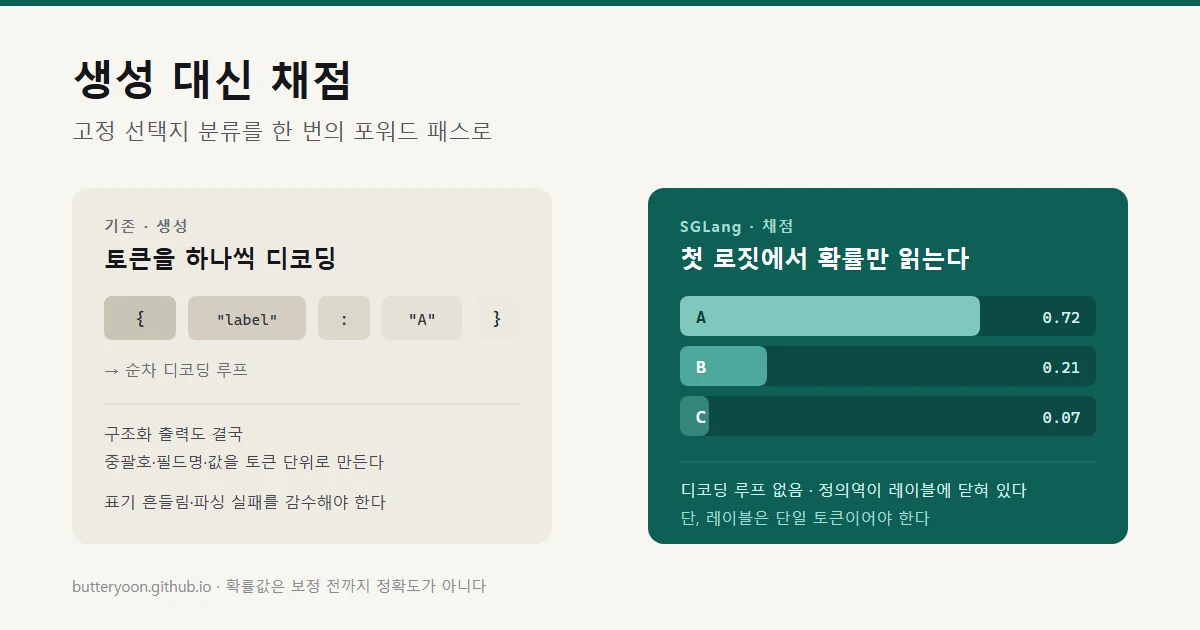
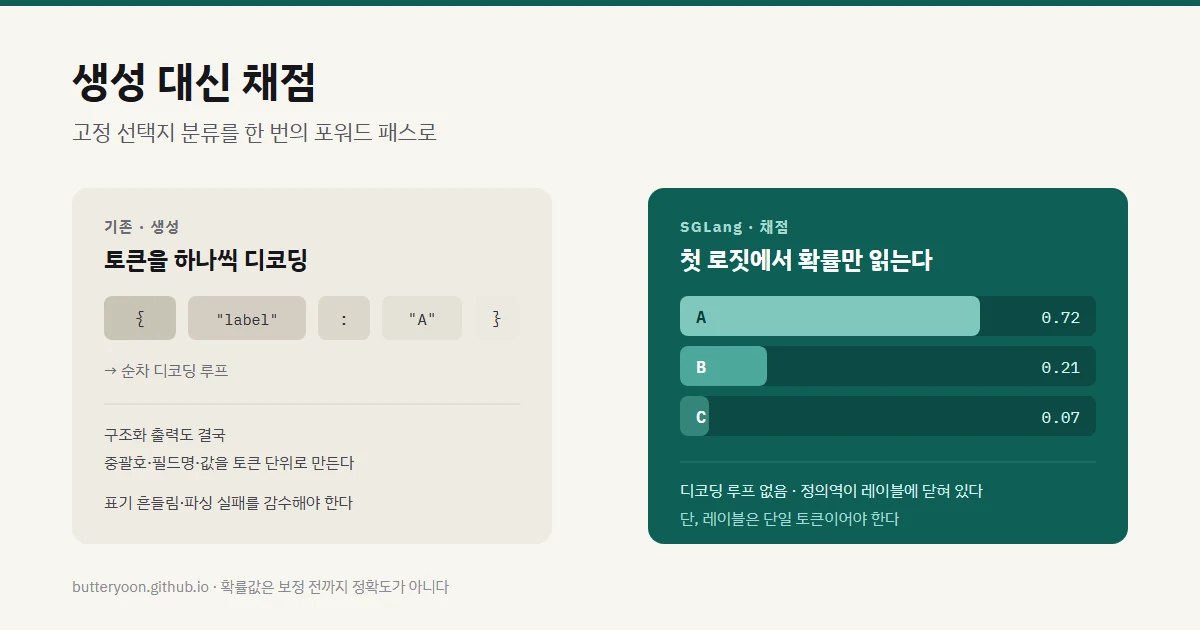
다이어그램 글꼴을 IBM Plex Sans KR + IBM Plex Mono로 교체
페이퍼로지는 Google Fonts에 없어 아티팩트(스타일시트를 fonts.googleapis.com
에서만 허용)에서 못 쓰고, 웨이트마다 패밀리가 따로 등록돼 font-weight 지정이
먹지 않는 문제가 있었다. IBM Plex Sans KR은 한 패밀리로 400~700을 커버하고
숫자·코드용 IBM Plex Mono와 설계가 같아 블로그와 아티팩트에서 함께 쓸 수 있다.

- SVG: @import로 Google Fonts를 불러오고 웨이트별 패밀리 지정 제거
- webp 재렌더 (1200x630, 32KB)
- CLAUDE.md·blog-draft-rules 스킬(v1.3.0) 규칙 교체
  렌더 시 --virtual-time-budget 필요(웹폰트 도착 전 촬영 방지)를 명시

diff --git a/CLAUDE.md b/CLAUDE.md
@@ -23,12 +23,13 @@ Publishing = commit and push to `master`; GitHub Pages builds automatically. Plu
 - `date` must not be in the future: GitHub Pages excludes future-dated posts from the build (no `future: true` in config), so the post silently won't appear on the site. When writing a new post, set `date` to the current time or earlier (KST, `+0900`).
 - `_config.yml` sets `timezone: Asia/Seoul` so post URLs use KST dates. Do not remove it — without it GitHub Pages builds in UTC and posts published before 09:00 KST get URLs dated one day earlier, breaking internal links.
 - Reference site assets as `{{site.baseurl}}/assets/img/...`.
-- **Diagram/title images use the Paperlogy (페이퍼로지) typeface.** It is installed per-user at `%LOCALAPPDATA%\Microsoft\Windows\Fonts\Paperlogy-*.ttf` (9 weights, Thin→Black) and is *not* a webfont here, so an SVG shipped as the `img:` value would fall back to a system font on every visitor's machine. Author the diagram as SVG with `font-family="Paperlogy-8ExtraBold, Paperlogy, sans-serif"` (weight-specific families — Windows registers each weight separately), then **rasterize it locally and commit the raster**:
+- **Diagram/title images use IBM Plex Sans KR for Korean text and IBM Plex Mono for numbers/code.** Both are on Google Fonts, so the same pair works in Artifacts (whose CSP allows stylesheets only from `fonts.googleapis.com`). Note the ceiling: IBM Plex Sans KR tops out at **weight 700** — there is no 800/900. Pretendard and NanumSquare are *not* on Google Fonts; do not reach for them.
+  Author the diagram as SVG in `assets/img/` with `font-family="IBM Plex Sans KR"` plus a numeric `font-weight`. Webfonts do not load when an SVG is used as the `img:` value, so **rasterize locally and commit the raster**: wrap the SVG in an HTML file carrying the Google Fonts `<link>`, screenshot it, convert to WebP.
   ```bash
-  "/c/Program Files/Google/Chrome/Application/chrome.exe" --headless --disable-gpu --hide-scrollbars     --screenshot=out.png --window-size=1200,630 "file:///<absolute path>/diagram.svg"
+  "/c/Program Files/Google/Chrome/Application/chrome.exe" --headless --disable-gpu --hide-scrollbars     --virtual-time-budget=8000 --screenshot=out.png --window-size=1200,630 "file:///<abs>/render.html"
   magick out.png -quality 88 -define webp:method=6 assets/img/<name>_title.webp
   ```
-  Keep the `.svg` in `assets/img/` as the editable source; point `img:` at the `.webp`. Always view the rendered PNG before committing — check for text overflow and that no Korean glyph fell back.
+  `--virtual-time-budget` is required — without it Chrome shoots before the webfont arrives and the text falls back. Keep the `.svg` as the editable source; point `img:` at the `.webp`. Always view the rendered PNG before committing: check for text overflow and that no Korean glyph fell back.
 - **Every post needs a well-formed `last_modified_at`** — it is the sort key for the home listing (see Structure). Use exactly `YYYY-MM-DD HH:MM:SS +0900`; a malformed value (e.g. one-digit seconds `18:00:0`) is parsed as a String instead of a Time by Ruby's YAML, and the mixed types make the GitHub Pages build fail. Validate with `^\d{4}-\d{2}-\d{2} \d{2}:\d{2}:\d{2} [+-]\d{4}$`.
 - **Posts use two extensions: `.md` and `.markdown`.** When auditing or bulk-editing front matter, glob `_posts/*`, never `_posts/*.md` — 7 older posts are `.markdown` and are silently skipped otherwise.
 

diff --git a/_posts/2026-09-28-sglang-scoring-decision-engine.md b/_posts/2026-09-28-sglang-scoring-decision-engine.md
@@ -5,7 +5,7 @@ title: "생성 대신 채점 — SGLang /v1/score로 오픈 LLM을 분류 엔진
 description: "Avi Chawla의 'Build your own Jev (100% local)' 해설. 고정된 선택지 분류에서 텍스트를 생성하지 않고 첫 next-token 로짓만 읽어 확률 분포를 얻는 방식, SGLang /v1/score 사용법, 단일 토큰 레이블 제약, 그리고 보정 없이는 확률이 정확도가 아니라는 한계를 정리한다."
 img: sglang_scoring_title.webp
 date: 2026-09-28 23:40:00 +0900
-last_modified_at: 2026-09-29 20:05:00 +0900
+last_modified_at: 2026-09-29 20:20:00 +0900
 tags: [sglang, scoring, classification, local-llm, qwen, inference, logits, jev, llm-serving, llm]
 related: llm-serving
 categories: dev
